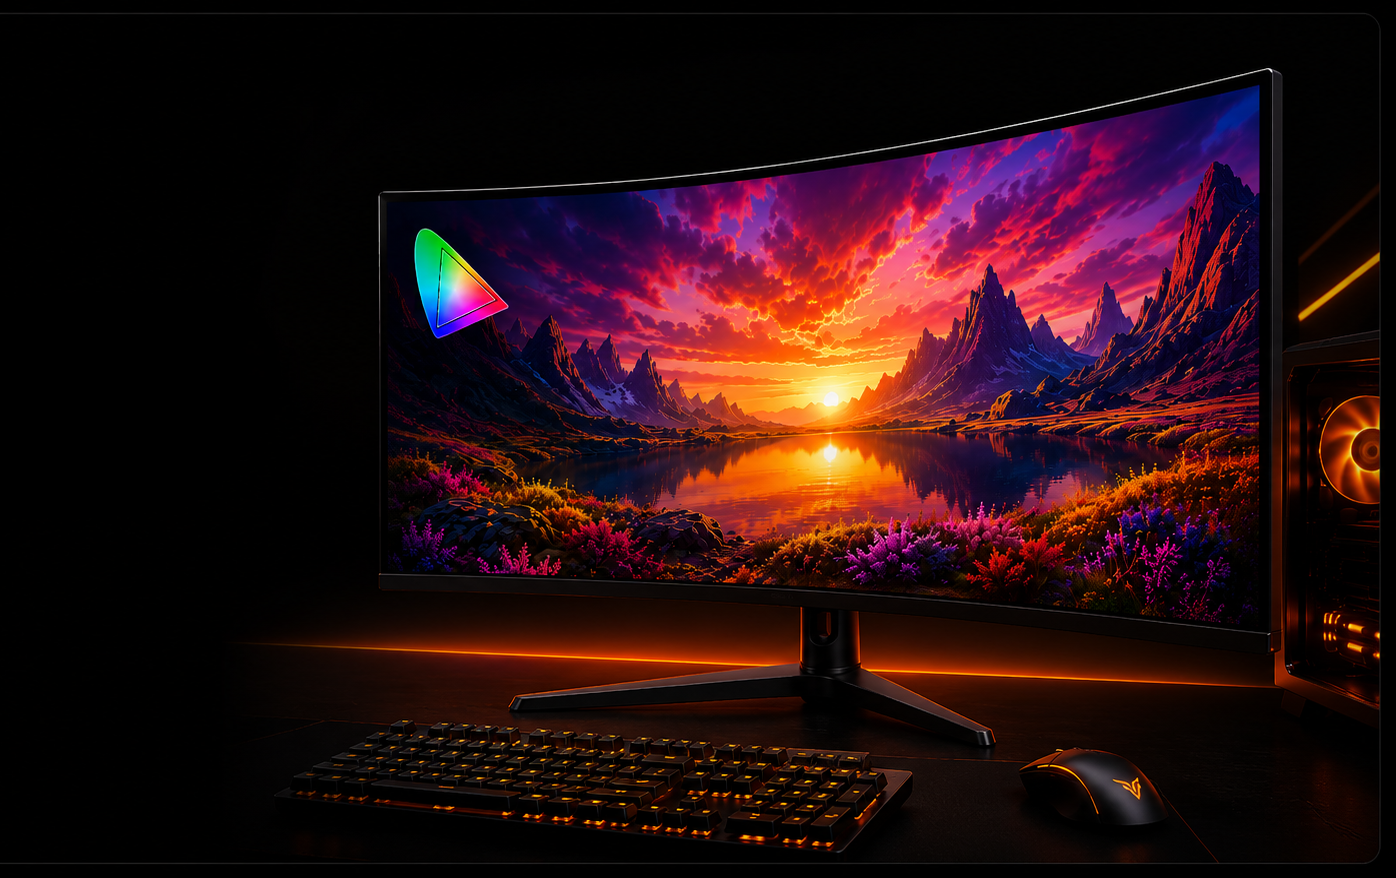
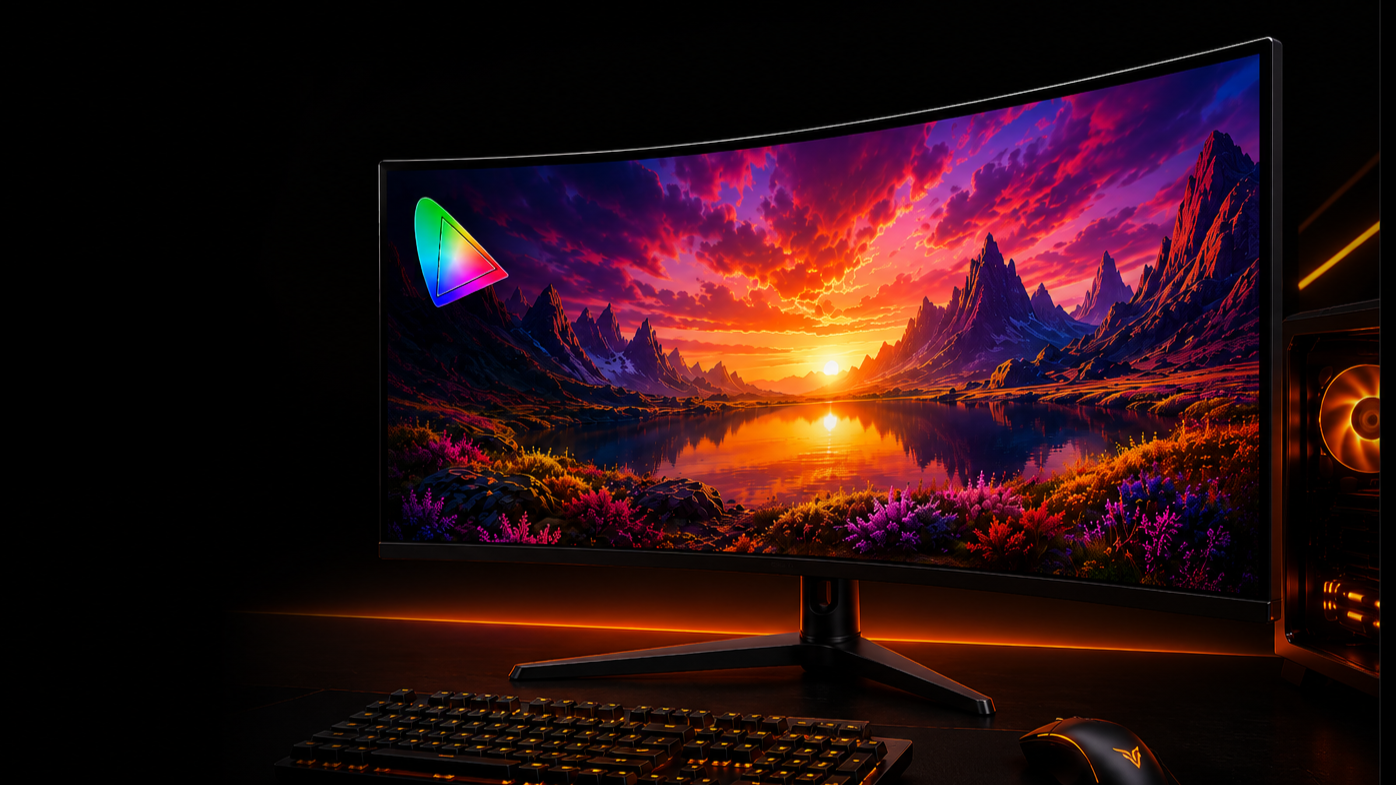
monitor feature

diff --git a/src/static/monitor-product.css b/src/static/monitor-product.css
@@ -1161,7 +1161,7 @@ html {
 .feature-grid{
     display:grid;
     grid-template-columns:repeat(2,1fr);
-    gap:100px;
+    gap:150px;
 }
 
 .feature-card{
@@ -1229,6 +1229,7 @@ html {
     position:relative;
     overflow:hidden;
     min-height:330px;
+    padding:0;
 }
 
 .feature-image img{
